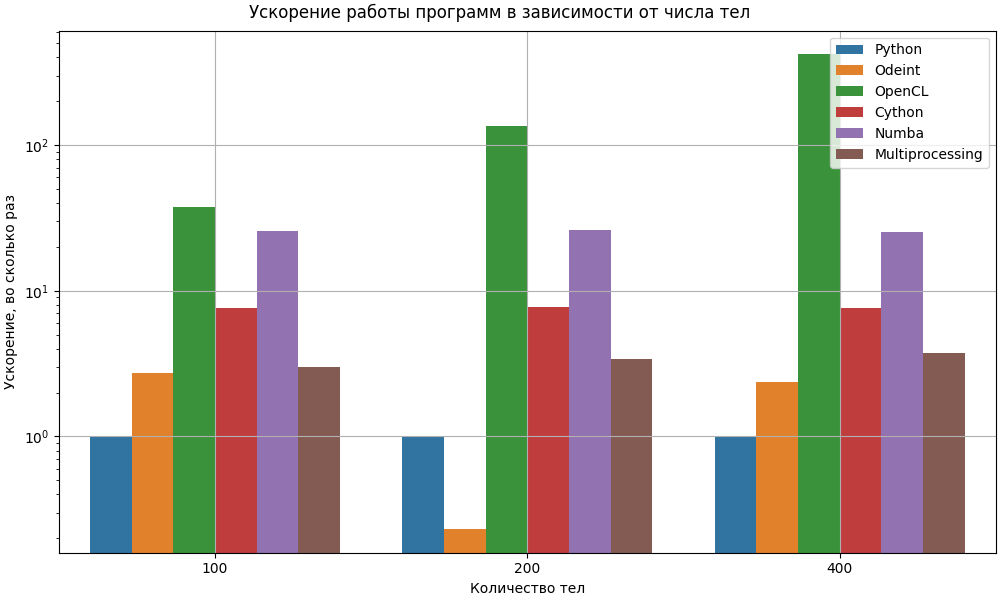
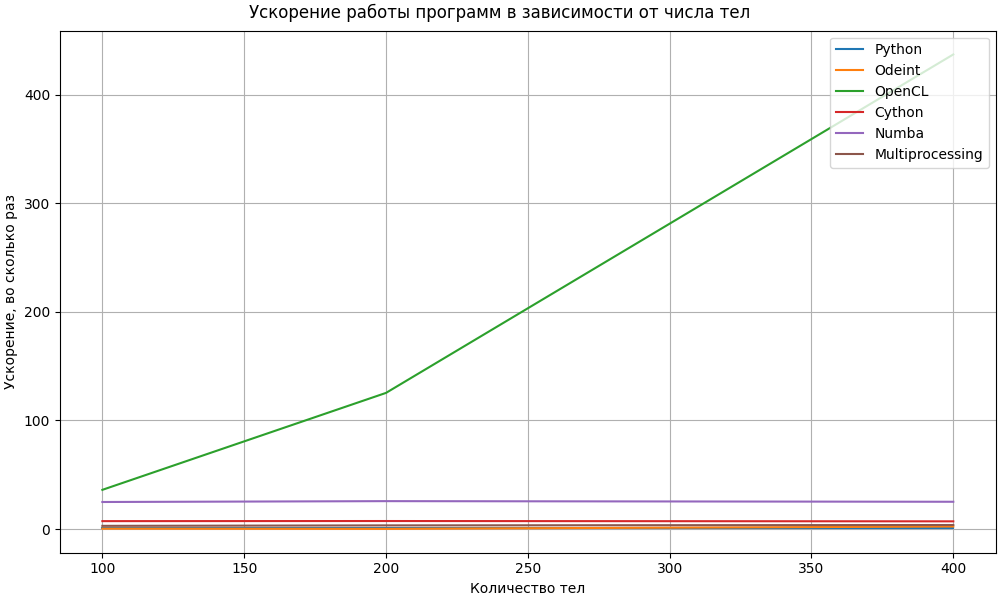
Changed visualisation

diff --git a/homework2/speedtest.py b/homework2/speedtest.py
@@ -70,31 +70,40 @@ def test_solver(
 def plot_avg_time(data: pd.DataFrame) -> None:
     fig, ax = plt.subplots(constrained_layout=True, figsize=(10, 6))
     fig.suptitle("Время работы программ в зависимости от числа тел")
-    sns.barplot(data, x="n_objects", y="avg_time", hue="name")
+    sns.lineplot(data, x="n_objects", y="avg_time", hue="name")
     ax.set_ylabel("Время работы, сек")
     ax.set_xlabel("Количество тел")
-    ax.set_yscale("log")
     ax.legend(loc="upper right")
     ax.grid(True)
-    fig.savefig(f"visualisation/avg_time_plot.png")
+    fig.savefig(f"visualisation_wo_opencl/avg_time_plot.png")
 
 
 def plot_speedup(data: pd.DataFrame) -> None:
     fig, ax = plt.subplots(constrained_layout=True, figsize=(10, 6))
     fig.suptitle("Ускорение работы программ в зависимости от числа тел")
-    sns.barplot(data, x="n_objects", y="speedup", hue="name")
+    sns.lineplot(data, x="n_objects", y="speedup", hue="name")
     ax.set_ylabel("Ускорение, во сколько раз")
     ax.set_xlabel("Количество тел")
-    ax.set_yscale("log")
     ax.legend(loc="upper right")
     ax.grid(True)
-    fig.savefig(f"visualisation/speedup_plot.png")
+    fig.savefig(f"visualisation_wo_opencl/speedup_plot.png")
+
+
+def plot_rel_diff(data: pd.DataFrame) -> None:
+    fig, ax = plt.subplots(constrained_layout=True, figsize=(10, 6))
+    fig.suptitle("Относительная погрешность в сравнении с Odeint")
+    sns.lineplot(data, x="n_objects", y="rel_diff", hue="name")
+    ax.set_ylabel("Относительная погрешность в евклидовой норме")
+    ax.set_xlabel("Количество тел")
+    ax.legend(loc="upper right")
+    ax.grid(True)
+    fig.savefig(f"visualisation_wo_opencl/rel_diff_plot.png")
 
 
 if __name__ == "__main__":
     n_iterations = 100
     n_trials = 3
-    data = {"name": [], "n_objects": [], "avg_time": [], "speedup": []}
+    data = {"name": [], "n_objects": [], "avg_time": [], "speedup": [], "rel_diff": []}
     for N in (100, 200, 400):
         config = {}
         test_fn = partial(test_solver, config=config, n_objects=N, n_trials=n_trials)
@@ -102,7 +111,7 @@ if __name__ == "__main__":
 
         test_fn(name="Python", solver=python_solver.solve_verlet, show_speedup=False)
         test_fn(name="Odeint", solver=odeint_solver.solve_verlet)
-        test_fn(name="OpenCL", solver=opencl_solver.solve_verlet)
+        # test_fn(name="OpenCL", solver=opencl_solver.solve_verlet)
         test_fn(name="Cython", solver=cython_solver.solve_verlet)
         test_fn(name="Numba", solver=numba_solver.solve_verlet)
         test_fn(name="Multiprocessing", solver=multiprocessing_solver.solve_verlet)
@@ -117,14 +126,17 @@ if __name__ == "__main__":
             data["avg_time"].append(config[name]["avg_time"])
             data["speedup"].append(config["Python"]["avg_time"] / config[name]["avg_time"])
             if name == "Odeint":
+                data["rel_diff"].append(None)
                 continue
             coords = config[name]["coords"]
             diff = np.linalg.norm(coords - coords_odeint, axis=(1, 2))
             rel_diff = diff / np.linalg.norm(coords_odeint, axis=(1, 2))
+            data["rel_diff"].append(rel_diff)
             ax.plot(range(n_iterations), rel_diff, label=name)
         ax.legend(loc="upper right")
         ax.grid(True)
         ax.set_yscale("log")
-        fig.savefig(f"visualisation/comparison_plot_n={N}.png")
+        fig.savefig(f"visualisation_wo_opencl/comparison_plot_n={N}.png")
     plot_avg_time(data)
     plot_speedup(data)
+    plot_rel_diff(data)
